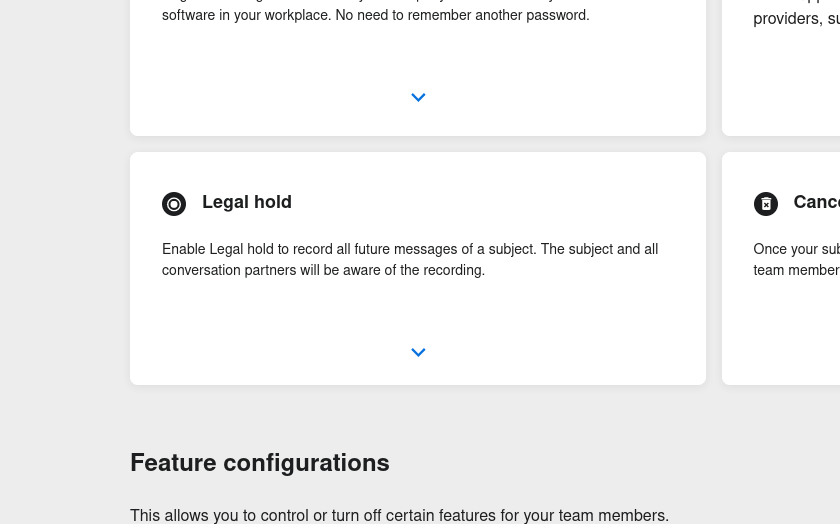
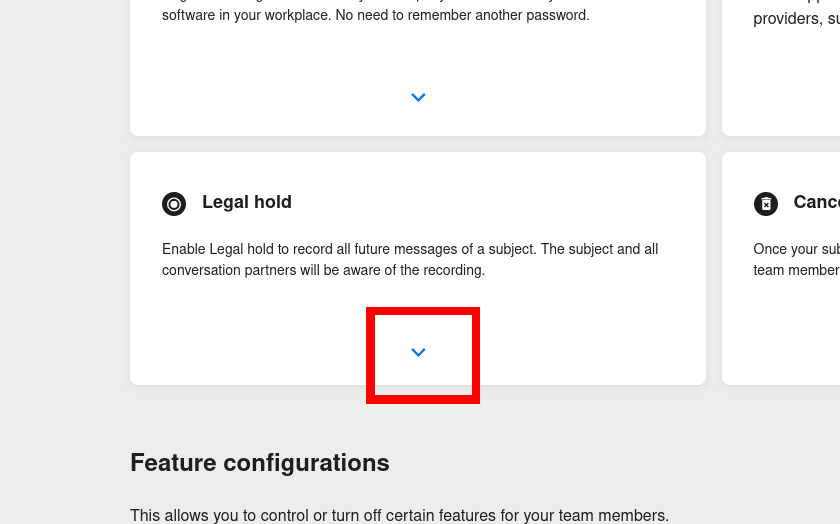
adding red boxes to screenshots

Changed region(s): [[0.4333, 0.5802, 0.5881, 0.7939]]

diff --git a/src/how-to/install/legalhold.md b/src/how-to/install/legalhold.md
@@ -89,16 +89,24 @@ To do this, first go to `teams.wire.com` or `teams.<your-domain>` depending on y
 
 Once in the interface, select `Customization` in the menu on the left:
 
+![Customization](img/legalhold-step01-click-customization.png)
+
 
 On the customization page, go to `Legal Hold`:
+
+![Legal Hold](img/legalhold-step02-goto-legalhold.png)
 
 
 Under the Legal Hold section, click the small down-pointing blue arrow:
 
+![Arrow](img/legalhold-step03-click-arrow.png)
+
 
 In the extended Legal Hold section, click on `Manage Configuration`:
 
+![Manage Configuration](img/legalhold-step04-click-manage-configuration.png)
 
+From here, you can fill in the required configuration info:
 
-
+![Fill in configuration](img/legalhold-step05-fill-info.png)
 
